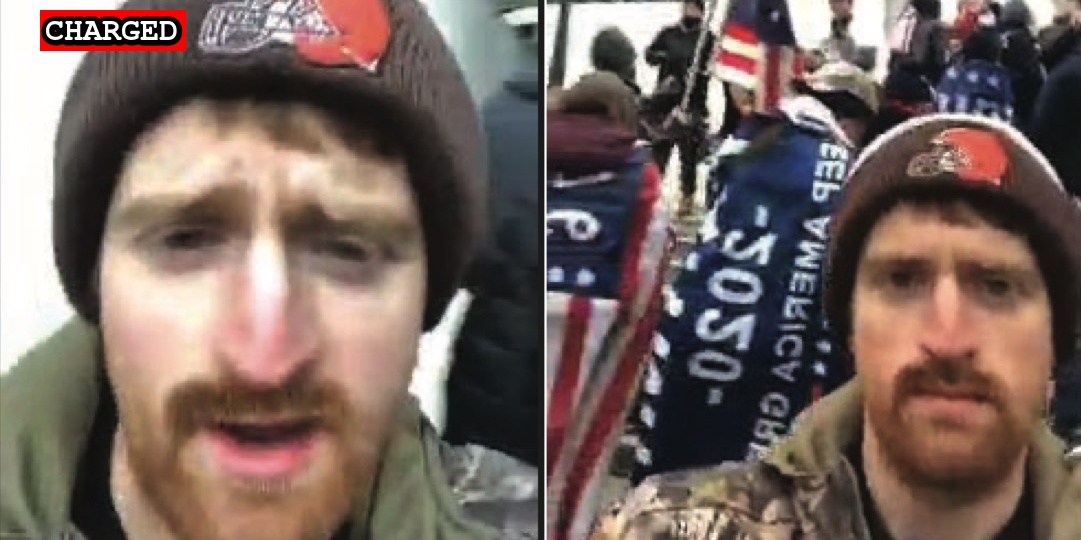
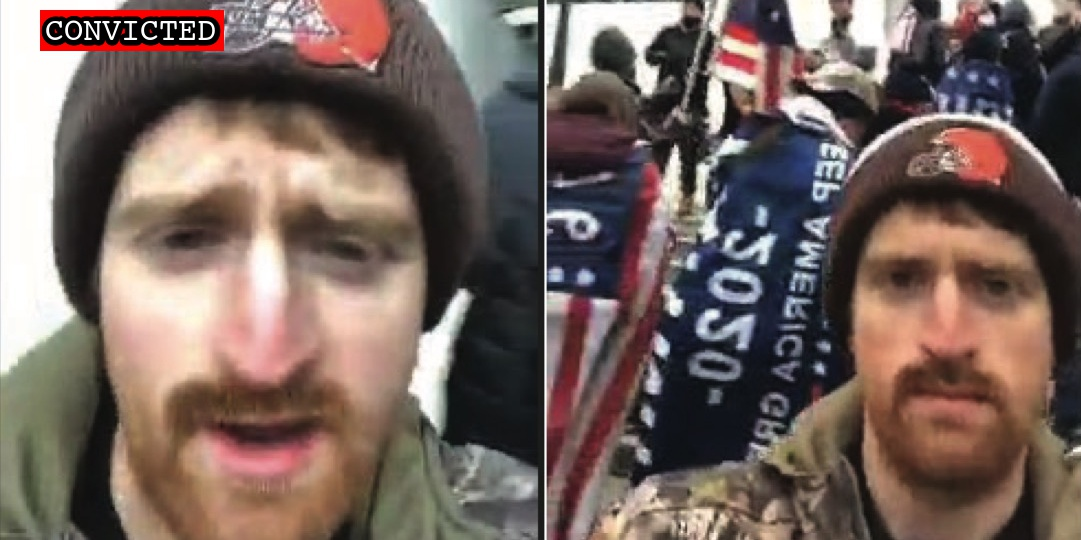
Latest plea

Changed region(s): [[0.0305, 0.0, 0.2137, 0.1185]]

diff --git a/docs/_suspects/oliver-sarko.md b/docs/_suspects/oliver-sarko.md
@@ -4,15 +4,15 @@ lastName: Sarko
 hashtag: OliverSarko
 aka:
 residence: Ohio
-status: Charged
+status: Convicted
 date: 2021-04-30
 charged: 2021-04-30
 indicted:
-convicted: 
+convicted: 2021-11-09
 sentenced: 
 dismissed: 
 deceased:
-plea_hearing:
+plea_hearing: 2021-11-09
 sentencing:
 age:
 occupation:
@@ -34,6 +34,10 @@ published: true
 caseNumber: 1:21-mj-358
 videos:
 charges:
+- code: 18 USC § 5104(e)(2)(G)
+  title: Parading, demonstrating or picketing in a Capitol building
+  url: https://www.law.cornell.edu/uscode/text/40/5104
+  felony: false
 sentence:
 ---
 - [News Report](https://www.nbc4i.com/news/local-news/columbus/man-with-central-ohio-ties-accused-of-entering-capitol-on-jan-6/)
